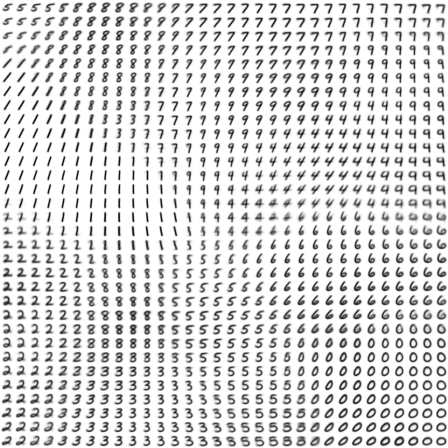
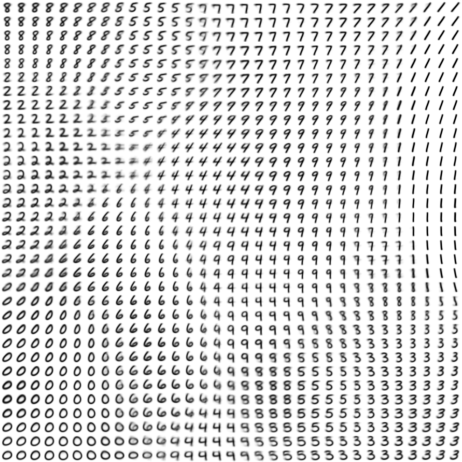
playground/som: Change map size 32x32 to 33x33

diff --git a/playground/som/train_mnist.py b/playground/som/train_mnist.py
@@ -76,7 +76,7 @@ class MinMaxNormalize():
 
 
 def main():
-    GRID_SIZE = 32
+    GRID_SIZE = 33
     IMAGE_SCALE = 0.5
     MNIST_SIZE = 28
     IMAGE_SIZE = int(MNIST_SIZE * IMAGE_SCALE)
